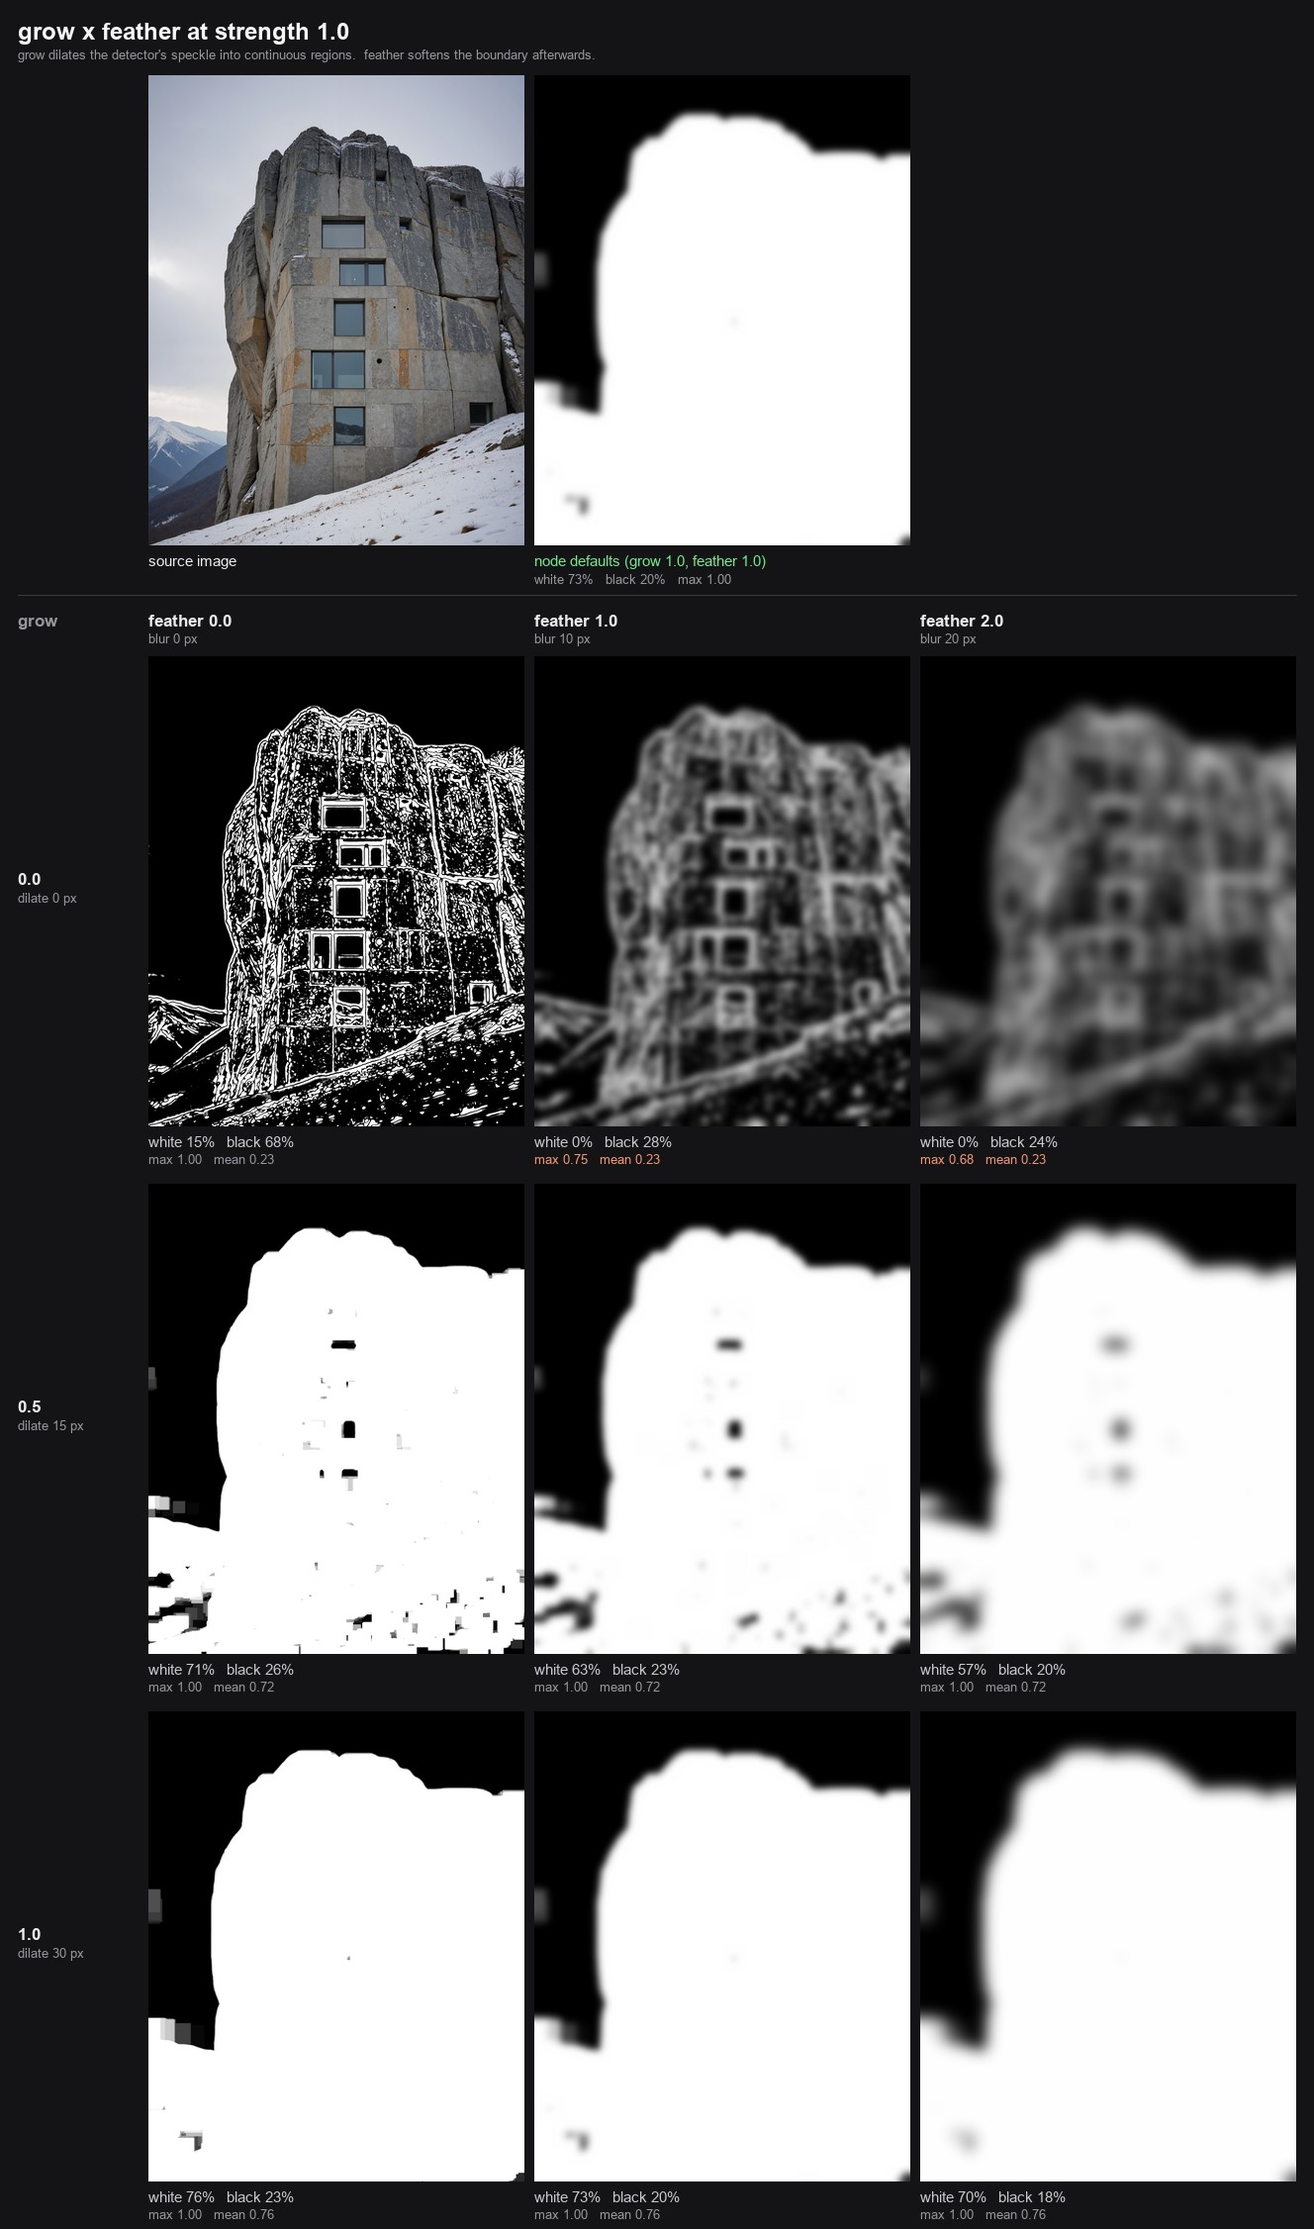
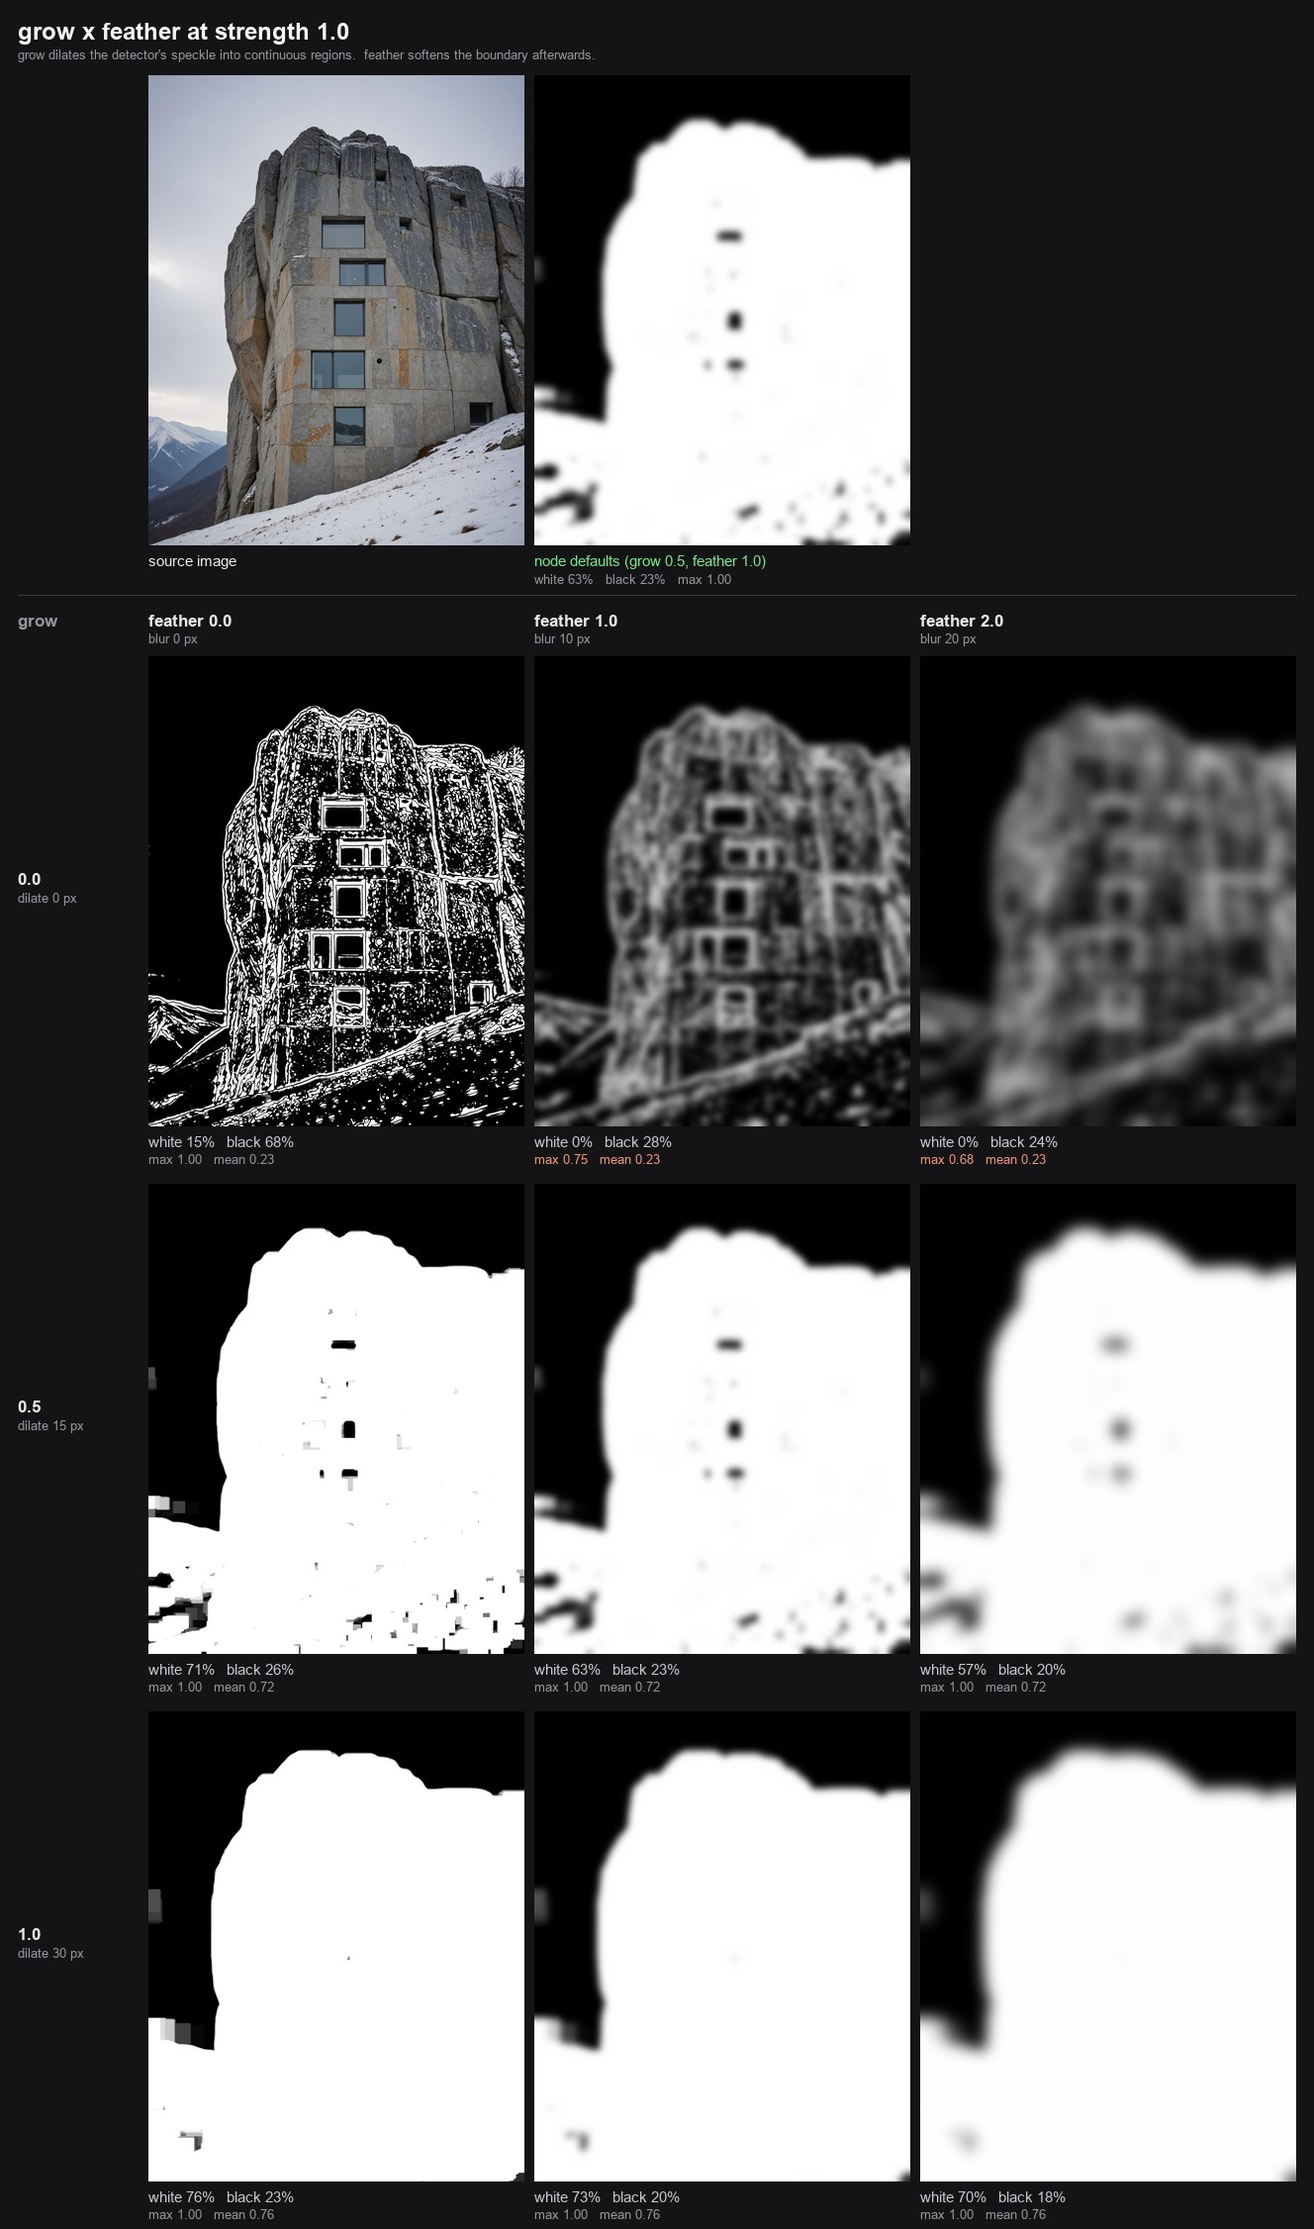
Default grow to 0.5, add a calculate-auto button, advise Set Latent Noise Mask
grow 0.5 with feather 1.0 and the guided detector gives 63% white / 23% black
on the test render -- continuous white regions with a solid protected quarter.
grow 1.0 dilated 30px and flooded past that.

The calculate auto button measures the image the node last processed and sets
strength and grain_filter from it: grain_filter from the noise floor of the
calmest tenth of the frame, strength bisected to hit a coverage target. The
image only exists inside build(), so each run stashes a 512px copy keyed by
node id and /hfmask/auto works from that. Before the graph has run there is
nothing cached and the button says so rather than guessing.

The solver reports when the target is out of reach instead of clamping in
silence -- on the concrete fixture at grow 0.5 the mask is already past the
target at minimum strength, and it now says to lower grow.

Documents Set Latent Noise Mask as the intended wiring, in the node help, the
mask output tooltip and the README.

diff --git a/web/hfmask.js b/web/hfmask.js
@@ -1,0 +1,88 @@
+import { app } from "../../scripts/app.js";
+import { api } from "../../scripts/api.js";
+
+// Adds a "calculate auto" button to the High Frequency Mask node.
+//
+// The button asks the backend to look at the image this node last processed and
+// pick strength and grain_filter from it. That image only exists server-side,
+// so this is a round trip rather than something the browser can work out. If
+// the graph has not run yet there is nothing to measure, and the button says so
+// instead of inventing numbers.
+
+const NODE = "HighFrequencyMask";
+
+function widget(node, name) {
+    return node.widgets?.find((w) => w.name === name);
+}
+
+function setWidget(node, name, value) {
+    const w = widget(node, name);
+    if (!w || value === undefined || value === null) return false;
+    w.value = value;
+    w.callback?.(value);
+    return true;
+}
+
+app.registerExtension({
+    name: "hfmask.autobutton",
+
+    async beforeRegisterNodeDef(nodeType, nodeData) {
+        if (nodeData.name !== NODE) return;
+
+        const onCreated = nodeType.prototype.onNodeCreated;
+        nodeType.prototype.onNodeCreated = function () {
+            onCreated?.apply(this, arguments);
+
+            const node = this;
+            const status = { text: "" };
+
+            const button = this.addWidget("button", "calculate auto", null, async () => {
+                button.name = "measuring…";
+                node.setDirtyCanvas(true, true);
+                try {
+                    const res = await api.fetchApi("/hfmask/auto", {
+                        method: "POST",
+                        headers: { "Content-Type": "application/json" },
+                        body: JSON.stringify({
+                            node_id: String(node.id),
+                            grow: widget(node, "grow")?.value ?? 0.5,
+                            feather: widget(node, "feather")?.value ?? 1.0,
+                            detector: widget(node, "detector")?.value ?? "guided",
+                        }),
+                    });
+                    const data = await res.json();
+
+                    if (!data.ok) {
+                        status.text = data.message || "could not measure";
+                    } else {
+                        setWidget(node, "strength", data.strength);
+                        setWidget(node, "grain_filter", data.grain_filter);
+                        status.text = data.note
+                            ? `strength ${data.strength}, grain_filter ${data.grain_filter} — ${data.note}`
+                            : `strength ${data.strength}, grain_filter ${data.grain_filter}` +
+                              ` — noise ${data.noise}, white ${data.white}%, black ${data.black}%`;
+                    }
+                } catch (err) {
+                    status.text = `failed: ${err}`;
+                } finally {
+                    button.name = "calculate auto";
+                    node.setDirtyCanvas(true, true);
+                }
+            });
+
+            button.serialize = false;
+
+            // A read-only line under the button, so the result is visible without
+            // hunting through the console.
+            const readout = this.addWidget("text", "", "", () => {}, {
+                serialize: false,
+                multiline: false,
+            });
+            readout.disabled = true;
+            Object.defineProperty(readout, "value", {
+                get: () => status.text,
+                set: () => {},
+            });
+        };
+    },
+});

diff --git a/__init__.py b/__init__.py
@@ -94,6 +94,7 @@ class HighFrequencyMask:
         "Protects flat areas during an upscale or refine pass. White where the image "
         "already has texture, black where it is flat -- feed it to the sampler as a "
         "noise mask and skies, walls, panels and skin are left alone.\n\n"
+        "HOW TO WIRE IT. Send the mask output into Set Latent Noise Mask, together with the latent you are about to resample, and feed that into the sampler. That is the intended use. The node can also attach the mask itself if you connect a latent to the samples input, but Set Latent Noise Mask is clearer to read in a graph and is what these settings were tuned against.\n\n"
         "WHAT IT FIXES. Upscalers invent detail in surfaces that should stay smooth "
         "and drift the colour while doing it. Flux Klein is especially prone to both. "
         "Masking the flat regions out stops the model touching them at all, so they "
@@ -134,7 +135,7 @@ class HighFrequencyMask:
     ]
 
     OUTPUT_TOOLTIPS = (
-        "The finished mask. White is sampled, black stays original.",
+        "The finished mask. White is sampled, black stays original. Send this into Set Latent Noise Mask together with your latent.",
         "The same mask as an IMAGE, for chaining into Preview, Save or a compositor.",
         "The input latent with the mask attached as its noise mask. Only meaningful "
         "when the samples input is connected.",
@@ -149,7 +150,7 @@ class HighFrequencyMask:
                 "image": ("IMAGE", {"tooltip": "The image to analyse. Only its texture is used, never its colour."}),
                 "strength": ("FLOAT", {"default": 1.00, "min": 0.40, "max": 2.00, "step": 0.02,
                                        "tooltip": "How much of the image counts as detail. Higher = more gets sampled, less stays flat. Has little effect above about 1.4."}),
-                "grow": ("FLOAT", {"default": 1.00, "min": -1.00, "max": 4.00, "step": 0.05,
+                "grow": ("FLOAT", {"default": 0.50, "min": -1.00, "max": 4.00, "step": 0.05,
                                    "tooltip": "Expands the white areas so detail keeps a safety margin. Negative values shrink the mask instead."}),
                 "feather": ("FLOAT", {"default": 1.00, "min": 0.00, "max": 4.00, "step": 0.05,
                                       "tooltip": "Softness of the edge between white and black. Higher = longer fade and no visible mask border."}),
@@ -157,6 +158,7 @@ class HighFrequencyMask:
                                            "tooltip": "Smooths grain and JPEG artifacts before analysis, so a noisy sky is still recognised as flat. Set to 0 for clean renders and upscales -- on a noise-free source it removes real texture and weakens the mask."}),
                 "invert": ("BOOLEAN", {"default": False, "tooltip": "Swaps black and white: protects the detail and samples the flat areas instead."}),
             },
+            "hidden": {"unique_id": "UNIQUE_ID"},
             "optional": {
                 "detector": (["guided", "high pass"], {"default": "guided",
                                                        "tooltip": "How texture is found. 'guided' uses an "
@@ -184,7 +186,10 @@ class HighFrequencyMask:
 
     def build(self, image, strength, grow, feather, grain_filter, invert,
               samples=None, detector="guided", radius_override=0,
-              black_override=0.0, white_override=0.0):
+              black_override=0.0, white_override=0.0, unique_id=None):
+
+        if unique_id is not None:
+            _remember(unique_id, image)
 
         src_dev = image.device
         dev = _device()
@@ -280,5 +285,137 @@ class HighFrequencyMask:
             return []
 
 
+# ---------------------------------------------------------------- auto button
+#
+# The button in the node needs something to measure, and the only place the
+# image exists is inside build(). So each run stashes a small copy, keyed by the
+# node's id, and the /hfmask/auto route works from that. Before the graph has
+# ever run there is nothing cached -- the route says so rather than guessing.
+
+_LAST_IMAGE = {}
+_CACHE_EDGE = 512
+
+
+def _remember(node_id, image):
+    """Keep a small copy of the last input, for the auto button."""
+    try:
+        x = image[:1].movedim(-1, 1).float()
+        h, w = x.shape[-2], x.shape[-1]
+        if min(h, w) > _CACHE_EDGE:
+            k = _CACHE_EDGE / min(h, w)
+            x = F.interpolate(x, size=(max(1, round(h * k)), max(1, round(w * k))),
+                              mode="area")
+        _LAST_IMAGE[str(node_id)] = x.movedim(1, -1).cpu()
+        if len(_LAST_IMAGE) > 32:                      # do not grow without bound
+            _LAST_IMAGE.pop(next(iter(_LAST_IMAGE)))
+    except Exception:
+        pass
+
+
+def _estimate_noise(img):
+    """Grain level, read off the flattest parts of the image.
+
+    A blurred copy is subtracted to leave only fine detail, then the local
+    deviation is taken over the calmest tenth of the picture -- whatever is
+    left there is grain or compression, not content.
+    """
+    g = img.movedim(-1, 1).mean(dim=1, keepdim=True).float()
+    resid = g - _blur(g, 1.0)
+    k = 8
+    h2, w2 = resid.shape[-2] // k * k, resid.shape[-1] // k * k
+    if h2 < k or w2 < k:
+        return 0.0
+    b = (resid[..., :h2, :w2]
+         .reshape(1, 1, h2 // k, k, w2 // k, k)
+         .permute(0, 1, 2, 4, 3, 5)
+         .reshape(-1, k * k))
+    sd = b.std(dim=1)
+    calm = torch.quantile(sd.float(), 0.10)
+    return float(calm) * 255.0
+
+
+def _suggest(img, grow, feather, detector):
+    """Pick grain_filter from measured noise, then solve strength for coverage.
+
+    The target is the mask profile that reads well in practice -- roughly three
+    quarters of the frame open, a solid quarter held back. Strength is bisected
+    rather than derived because the autolevel is a quantile, which has no
+    closed form.
+    """
+    node = HighFrequencyMask()
+    noise = _estimate_noise(img)
+    grain = 0.0 if noise < 0.6 else min(2.0, round(noise / 0.9, 2))
+
+    target = 0.72
+    lo, hi = 0.40, 2.00
+
+    def coverage(st):
+        return float(node.build(img, st, grow, feather, grain, False,
+                                detector=detector)["result"][0].mean())
+
+    # The slider cannot always reach the target: with a generous grow the mask is
+    # already past it at minimum strength. Say so rather than clamping silently.
+    at_lo, at_hi = coverage(lo), coverage(hi)
+    if at_lo > target:
+        strength, note = lo, ("already above target at minimum strength — "
+                              "lower grow for a tighter mask")
+    elif at_hi < target:
+        strength, note = hi, ("cannot reach target at maximum strength — "
+                              "raise grow or lower the radius")
+    else:
+        note = ""
+        for _ in range(9):
+            mid = (lo + hi) / 2.0
+            if coverage(mid) < target:
+                lo = mid
+            else:
+                hi = mid
+        strength = round((lo + hi) / 2.0, 2)
+
+    m = node.build(img, strength, grow, feather, grain, False,
+                   detector=detector)["result"][0]
+    return {
+        "strength": strength,
+        "grain_filter": grain,
+        "note": note,
+        "noise": round(noise, 2),
+        "white": round(float((m >= 0.98).float().mean()) * 100, 1),
+        "black": round(float((m <= 0.02).float().mean()) * 100, 1),
+        "mean": round(float(m.mean()), 3),
+    }
+
+
+try:
+    import server
+    from aiohttp import web
+
+    @server.PromptServer.instance.routes.post("/hfmask/auto")
+    async def _hfmask_auto(request):
+        try:
+            data = await request.json()
+        except Exception:
+            data = {}
+        node_id = str(data.get("node_id", ""))
+        img = _LAST_IMAGE.get(node_id)
+        if img is None:
+            return web.json_response(
+                {"ok": False,
+                 "message": "No image yet — run the graph once, then press again."})
+        try:
+            out = _suggest(img,
+                           float(data.get("grow", 0.5)),
+                           float(data.get("feather", 1.0)),
+                           str(data.get("detector", "guided")))
+            out["ok"] = True
+            return web.json_response(out)
+        except Exception as exc:
+            return web.json_response({"ok": False, "message": f"{type(exc).__name__}: {exc}"})
+except Exception:
+    pass
+
+
+WEB_DIRECTORY = "./web"
+
 NODE_CLASS_MAPPINGS = {"HighFrequencyMask": HighFrequencyMask}
 NODE_DISPLAY_NAME_MAPPINGS = {"HighFrequencyMask": "High Frequency Mask"}
+__all__ = ["NODE_CLASS_MAPPINGS", "NODE_DISPLAY_NAME_MAPPINGS", "WEB_DIRECTORY"]

diff --git a/docs/make_grid.py b/docs/make_grid.py
@@ -64,7 +64,7 @@ def main():
            (245, 245, 245), f_t)
     y += 30
     d.text((PAD, y), "White = sampled.  Black = left alone.  All other settings at "
-                     "the node's defaults (grow 1.0, feather 1.0, grain_filter 1.0).",
+                     "the node's defaults (grow 0.5, feather 1.0, grain_filter 1.0).",
            (150, 150, 156), f_s)
     y += 26
 
@@ -73,7 +73,7 @@ def main():
                  (PAD + LABEL_W, y))
     d.text((PAD + LABEL_W, y + tile_h + 7), "source image", (235, 235, 235), f_c)
 
-    m = build_mask(node, img, sensitivity=1.0, grow=1.0, feather=1.0, grain=1.0)
+    m = build_mask(node, img, sensitivity=1.0, grow=0.5, feather=1.0, grain=1.0)
     arr = (m[0].clamp(0, 1).numpy() * 255).astype(np.uint8)
     canvas.paste(Image.fromarray(arr).convert("RGB").resize((TILE_W, tile_h), Image.LANCZOS),
                  (PAD + LABEL_W + TILE_W + GAP, y))
@@ -98,7 +98,7 @@ def main():
         d.text((PAD, y + tile_h // 2 - 14), f"{px} px", (235, 235, 235), f_h)
         d.text((PAD, y + tile_h // 2 + 8), note, (150, 150, 156), f_s)
         for c, st in enumerate(STRENGTH):
-            mm = build_mask(node, img, sensitivity=st, grow=1.0, feather=1.0,
+            mm = build_mask(node, img, sensitivity=st, grow=0.5, feather=1.0,
                             grain=1.0, radius_override=px)
             a = (mm[0].clamp(0, 1).numpy() * 255).astype(np.uint8)
             x = PAD + LABEL_W + c * (TILE_W + GAP)

diff --git a/docs/make_edges_grid.py b/docs/make_edges_grid.py
@@ -60,12 +60,12 @@ def main():
     canvas.paste(Image.fromarray(src).resize((TILE_W, th), Image.LANCZOS), (PAD + LABEL_W, y))
     d.text((PAD + LABEL_W, y + th + 7), "source image", (235, 235, 235), _f(15))
 
-    m = build_mask(node, img, grow=1.0, feather=1.0, grain=1.0)
+    m = build_mask(node, img, grow=0.5, feather=1.0, grain=1.0)
     a = (m[0].clamp(0, 1).numpy() * 255).astype(np.uint8)
     x = PAD + LABEL_W + TILE_W + GAP
     canvas.paste(Image.fromarray(a).convert("RGB").resize((TILE_W, th), Image.LANCZOS), (x, y))
     wt, bk, mx, mn = stats(m[0])
-    d.text((x, y + th + 7), "node defaults (grow 1.0, feather 1.0)", (120, 230, 140), _f(15))
+    d.text((x, y + th + 7), "node defaults (grow 0.5, feather 1.0)", (120, 230, 140), _f(15))
     d.text((x, y + th + 27), f"white {wt:.0f}%   black {bk:.0f}%   max {mx:.2f}",
            (150, 150, 156), _f(13))
 

diff --git a/README.md b/README.md
@@ -11,6 +11,26 @@ stay clean.
 
 Everything runs in torch on the GPU and handles batches.
 
+## Wiring
+
+Send `mask` into **Set Latent Noise Mask**, along with the latent you are about
+to resample, and that into your sampler:
+
+```
+Image ──► High Frequency Mask ──mask──► Set Latent Noise Mask ──► KSampler
+                                            ▲
+Latent ─────────────────────────────────────┘
+```
+
+That is the intended use and what these defaults were tuned against. The node
+can attach the mask itself if you connect a latent to its `samples` input, but
+Set Latent Noise Mask reads more clearly in a graph.
+
+There is a **calculate auto** button on the node: it measures the image this
+node last processed and sets `strength` and `grain_filter` from it. The graph
+has to have run once first — before that there is nothing to measure and the
+button says so rather than guessing.
+
 ## Quick start for upscaling
 
 Connect `image` from your source, `samples` from your latent, and the `latent` output
